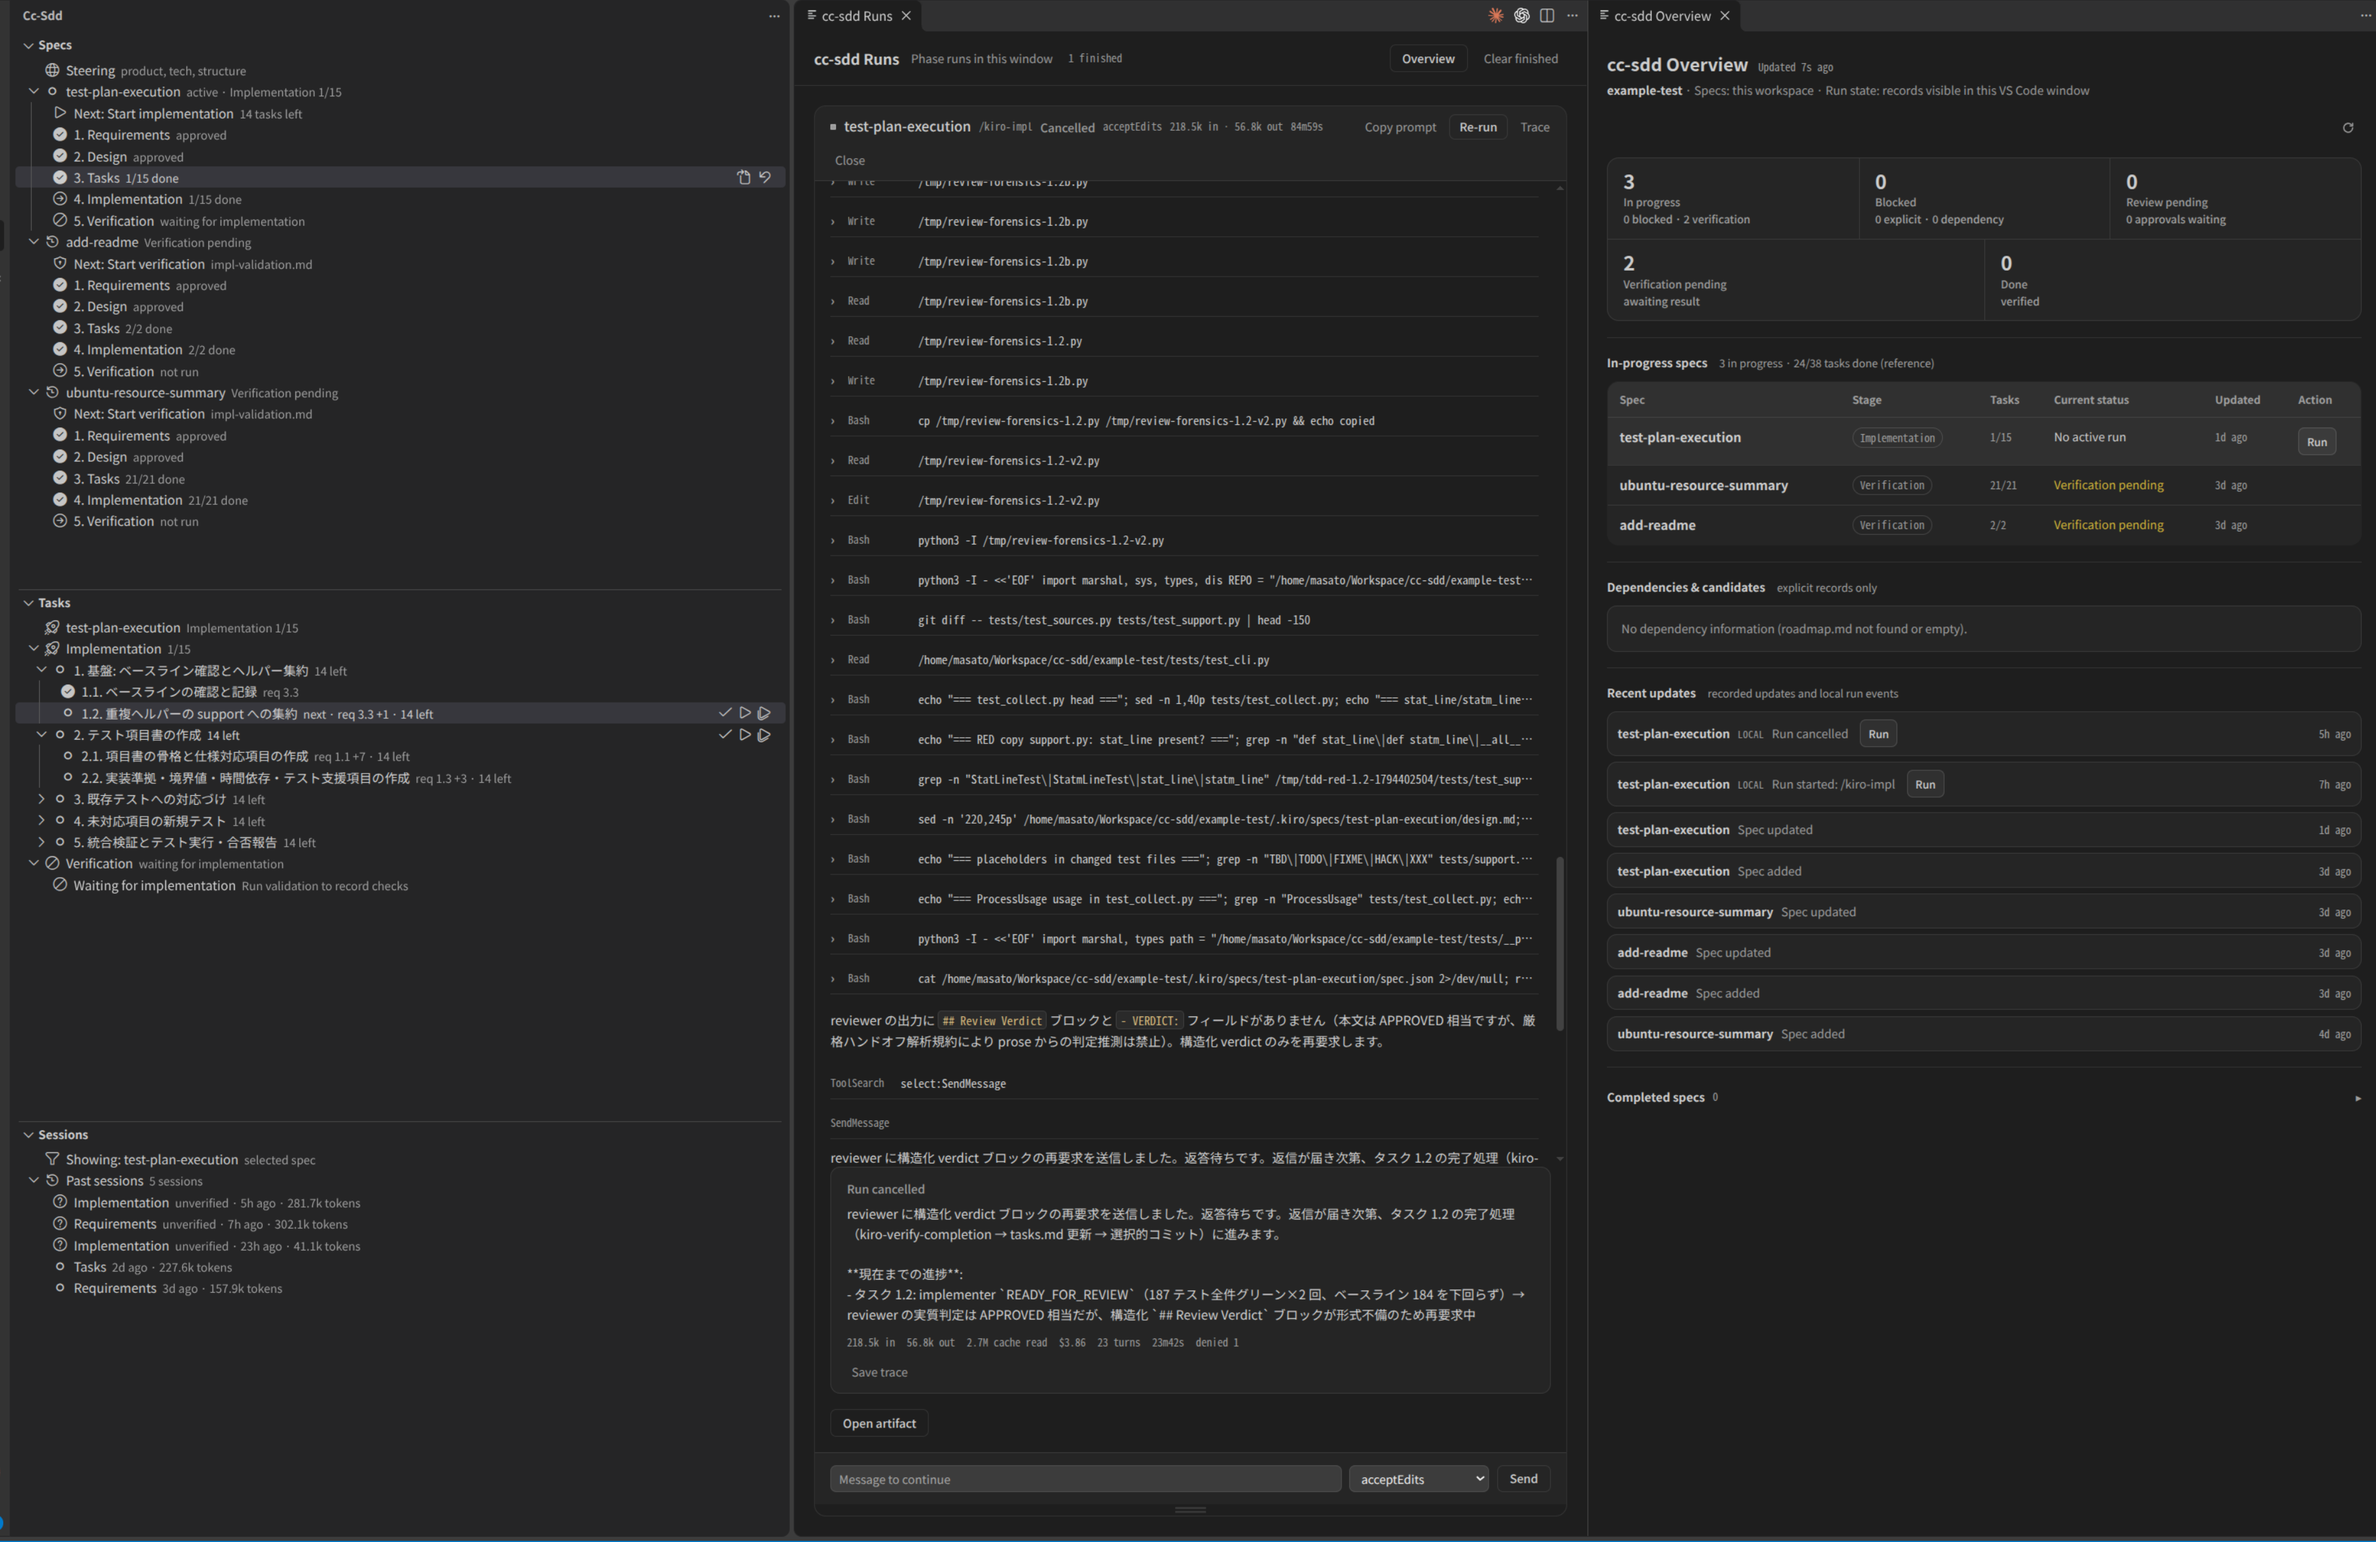
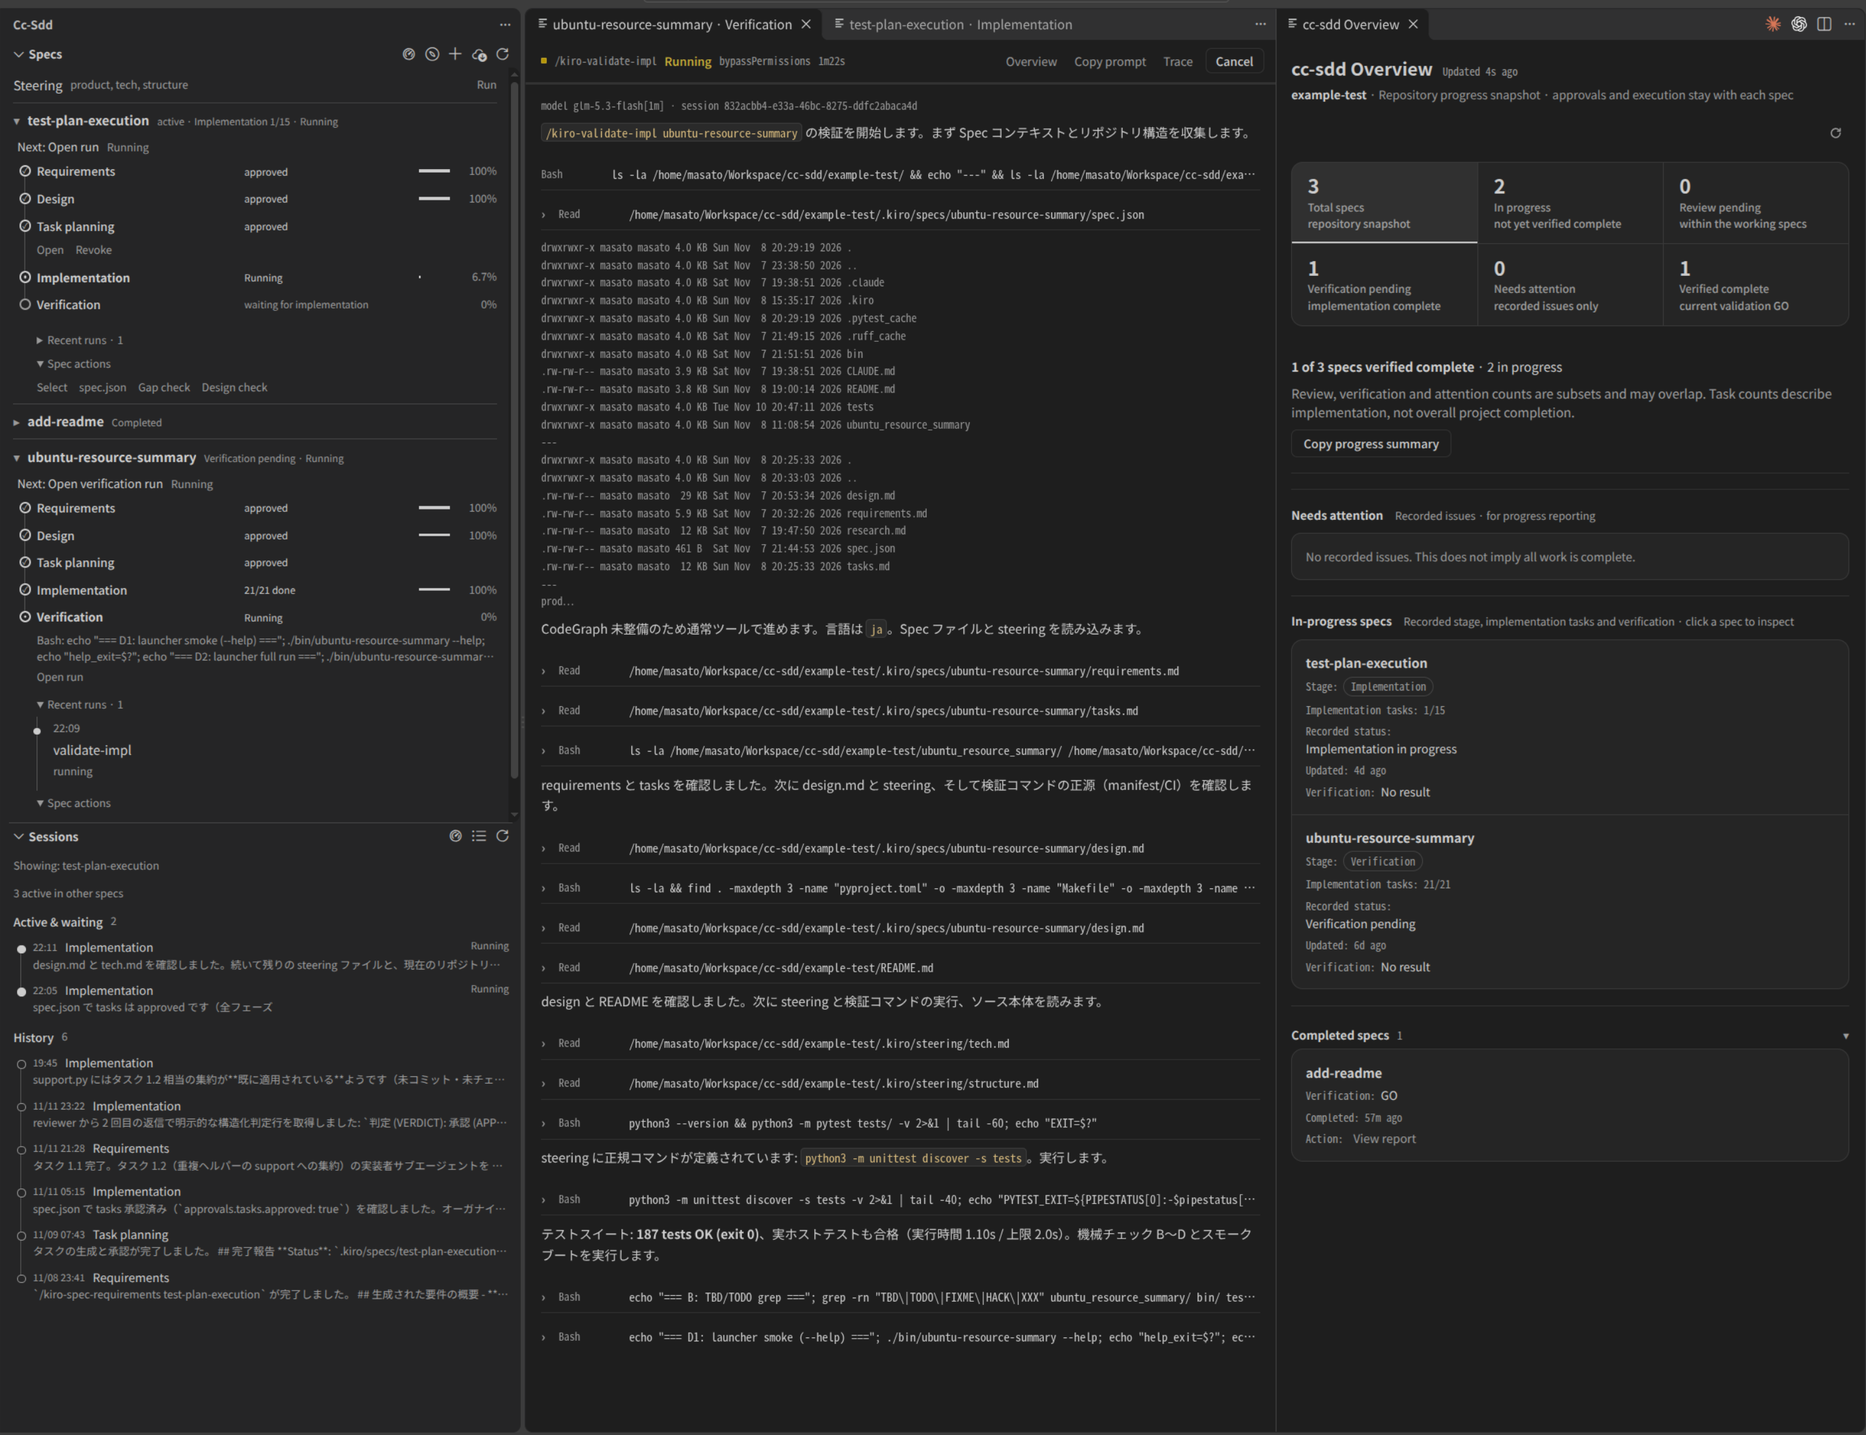
docs: update workbench screenshot for the timeline UI

diff --git a/README.md b/README.md
@@ -6,7 +6,7 @@ English | <a href="./README_ja.md">日本語</a>
 
 A VS Code workbench for [cc-sdd](https://github.com/gotalab/cc-sdd) specs. It reads `.kiro/specs/` directly and adds the missing UI layer: a spec explorer, approval gates, phase launchers, a task board, a headless **Runs** console, resumable Claude Code sessions, and a leader/PM **Overview** portfolio for spec progress.
 
-![cc-sdd Specs workbench: Specs and Sessions in the sidebar, the cc-sdd Runs console in the middle, and the cc-sdd Overview portfolio on the right](./assets/workbench.png)
+![cc-sdd Specs workbench: Specs and Sessions in the sidebar, individual Run tabs in the middle, and the progress-reporting Overview on the right](./assets/workbench.png)
 
 The workbench is built around a Specs sidebar with embedded implementation tasks and a Sessions history timeline and two panels:
 

diff --git a/README_ja.md b/README_ja.md
@@ -6,7 +6,7 @@
 <a href="./README.md">English</a> | 日本語
 </sub></div>
 
-![cc-sdd Specs ワークベンチ: Specs / Tasks / Sessions のサイドバー、中央の cc-sdd Runs コンソール、右の cc-sdd Overview ポートフォリオ](./assets/workbench.png)
+![cc-sdd Specs ワークベンチ: Specs と Sessions のサイドバー、中央の Run 別タブ、右の進捗報告向け Overview](./assets/workbench.png)
 
 このワークベンチは、実装タスクを統合した Specs ビューと Sessions 履歴タイムライン、2つのパネルで構成されます。
 
